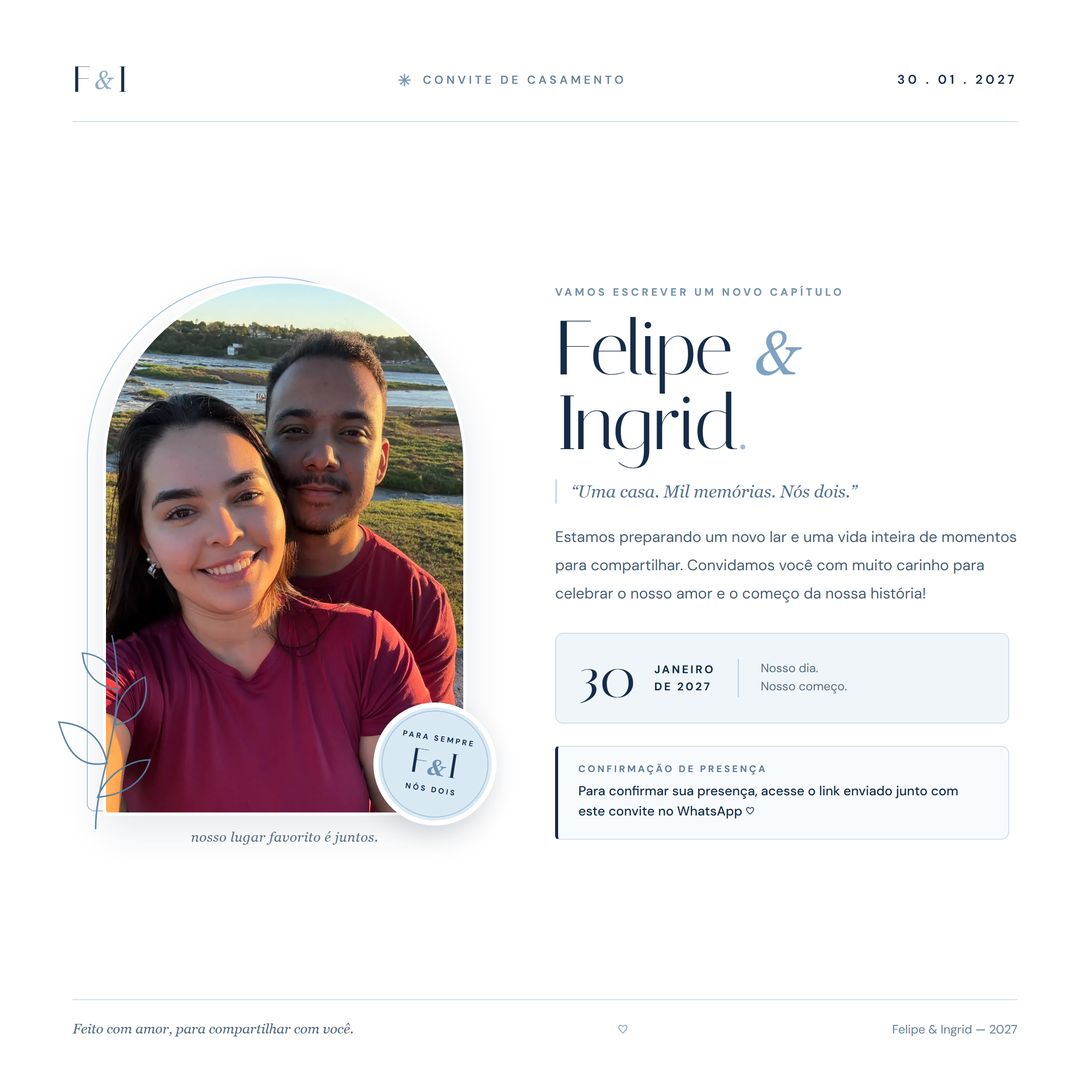
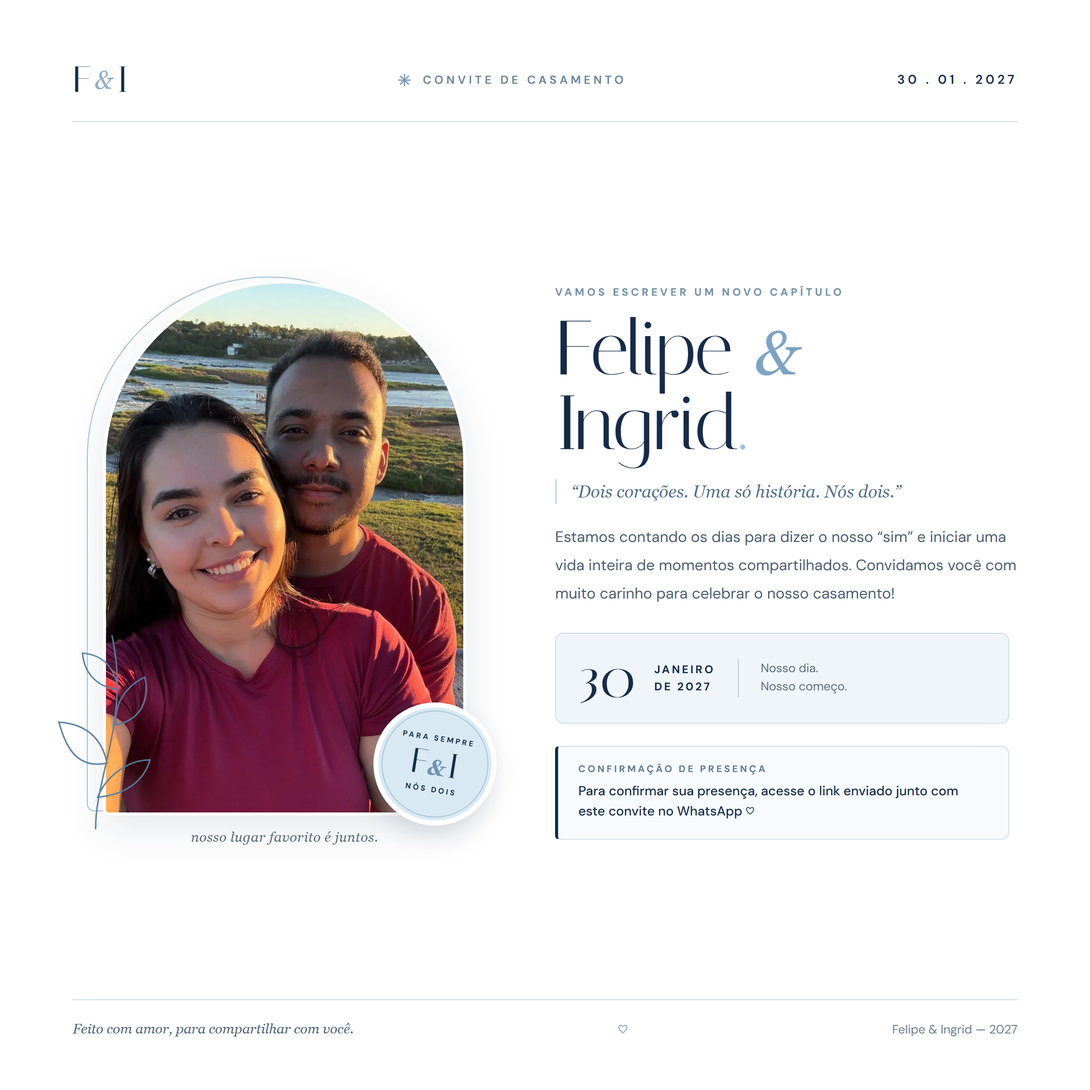
Ajusta textos do site e da imagem do convite para foco no casamento

Changed region(s): [[0.4963, 0.4343, 0.9306, 0.5583]]

diff --git a/app/catalogue.tsx b/app/catalogue.tsx
@@ -16,5 +16,5 @@ export default function Catalogue(){
  async function submit(e:React.FormEvent){e.preventDefault();if(!selected)return;setBusy(true);setModalError('');try{const r=await reservationRequest({method:action==='cancel'?'DELETE':'POST',headers:{'Content-Type':'application/json'},body:JSON.stringify({productId:selected.id,name:name.trim(),token:reservationKey()})});const data=await r.json() as {error?:string};if(!r.ok){if(r.status===409)await refresh();throw new Error(data.error||'Tente novamente.');}if(action==='reserve'){try{localStorage.setItem('if-guest-name',name.trim());}catch{}setReserved(x=>[...new Set([...x,selected.id])]);setMine(x=>[...new Set([...x,selected.id])]);setSuccess(true);}else{setReserved(x=>x.filter(i=>i!==selected.id));setMine(x=>x.filter(i=>i!==selected.id));setSelected(null);}await refresh();}catch(e){setModalError(e instanceof Error?e.message:'Não foi possível concluir. Tente novamente.');}finally{setBusy(false);}}
  const categories=['Todos',...new Set(products.map(p=>p.category))];
  const filtered=products.filter(p=>(category==='Todos'||p.category===category)&&p.name.normalize('NFD').replace(/[\u0300-\u036f]/g,'').toLowerCase().includes(query.normalize('NFD').replace(/[\u0300-\u036f]/g,'').toLowerCase())&&(availability==='all'||availability==='available'&&!reserved.includes(p.id)||availability==='mine'&&mine.includes(p.id))).sort((a,b)=>sort==='low'?(a.price??Infinity)-(b.price??Infinity):sort==='high'?(b.price??-Infinity)-(a.price??-Infinity):0);
- return <section className="gifts-section catalogue-section" id="presentes" aria-labelledby="gifts-title"><div className="section-heading"><span className="optional-pill">OPCIONAL • SE DESEJAR NOS PRESENTEAR</span><h2 id="gifts-title">Sugestões para o <em>nosso novo lar.</em></h2><p>Ter você celebrando conosco já é o essencial. Caso deseje nos presentear, escolha um item abaixo com seu nome ou <a href="#pix" className="inline-pix-link">contribua via Pix ↓</a></p></div><div className="catalogue"><div className="catalogue-voltage"><span aria-hidden="true">ϟ</span><p><strong>Presentes ligados à tomada: 220 V.</strong><br/>Ao comprar, confira a voltagem no anúncio. Para itens USB, confira também a compatibilidade do carregador.</p></div><div className="catalogue-intro"><span>{products.length} formas de fazer parte ♡</span><span>Uma reserva por presente</span></div><label className="search-field"><svg viewBox="0 0 24 24" fill="none" aria-hidden="true"><circle cx="10" cy="10" r="6.5"/><path d="m15 15 6 6"/></svg><span className="sr-only">Buscar presente</span><input type="search" placeholder="O que você gostaria de presentear?" value={query} onChange={e=>setQuery(e.target.value)}/></label><div className="category-filters" aria-label="Categorias">{categories.map(c=><button key={c} aria-pressed={category===c} onClick={()=>setCategory(c)}>{c}</button>)}</div><div className="catalogue-tools"><label><span className="sr-only">Filtrar disponibilidade</span><select value={availability} onChange={e=>setAvailability(e.target.value)}><option value="all">Todos os presentes</option><option value="available">Disponíveis</option><option value="mine">Minhas reservas ({mine.length})</option></select></label><label><span className="sr-only">Ordenar presentes</span><select value={sort} onChange={e=>setSort(e.target.value)}><option value="original">Ordem da lista</option><option value="low">Menor preço</option><option value="high">Maior preço</option></select></label></div><p className="price-notice">Valores de referência, sem frete. O preço final e as variações devem ser conferidos na loja.</p>{error&&<div className="catalogue-error" role="status">{error}<button onClick={refresh}>Tentar novamente</button></div>}<div className="product-count" aria-live="polite">{filtered.length} {filtered.length===1?'presente encontrado':'presentes encontrados'}</div><div className="product-grid">{filtered.map(p=>{const isMine=mine.includes(p.id),isReserved=reserved.includes(p.id);return <article className={'product-card'+(isReserved?' is-reserved':'')} key={p.id}><div className="product-photo">{p.image&&!failedImages.includes(p.id)?<img src={p.image} alt={p.name} loading="lazy" width="650" height="650" onError={()=>setFailedImages(x=>[...x,p.id])}/>:<div className="product-photo-pending"><svg viewBox="0 0 70 70" fill="none" aria-hidden="true"><path d="M15 30h40v30H15ZM10 20h50v10H10ZM35 20v40M35 20C13 20 16 4 24 8l11 12ZM35 20C57 20 54 4 46 8L35 20Z"/></svg><span>Foto em atualização</span></div>}{[10,12].includes(Number(p.id.slice(-2)))&&<span className="photo-reference">Foto de referência</span>}<span className={'product-state '+(isReserved?'reserved':'available')}>{isMine?'Reservado por você':isReserved?'Já escolhido':'Disponível'}</span></div><div className="product-body"><span className="product-category">{p.category}</span><h3>{p.name}</h3>{p.voltage&&<p className="voltage-badge"><span aria-hidden="true">ϟ</span> Presentear em <strong>220 V</strong></p>}<div className="product-price">{p.price!==null?<><span className="price-prefix">{p.priceMax||[11,18,19].includes(Number(p.id.slice(-2)))?'A partir de':'Valor de referência'}</span><strong>{money(p.price)}</strong>{p.priceMax&&<span className="price-range">até {money(p.priceMax)}</span>}</>:<strong className="price-unknown">Consultar valor na loja</strong>}</div>{p.note&&<p className="product-note">{p.note}</p>}<a className="store-link" href={p.url} target="_blank" rel="noopener noreferrer">Ver na {p.store==='Shopee'?'Shopee':'loja'} <span aria-hidden="true">↗</span></a>{isMine?<><a className="reserve-button owned" href={p.url} target="_blank" rel="noopener noreferrer">Comprar meu presente ↗</a><button className="cancel-link" onClick={e=>open(p,'cancel',e)}>Cancelar minha reserva</button></>:<button className="reserve-button" disabled={isReserved||!loaded} onClick={e=>open(p,'reserve',e)}>{isReserved?'Presente reservado':!loaded?'Aguardando reservas…':'Vou presentear ♡'}</button>}</div></article>;})}</div>{!filtered.length&&<div className="no-products"><h3>{availability==='mine'?'Seu primeiro gesto de carinho começa aqui.':'Ainda não encontramos esse presente.'}</h3><p>{availability==='mine'?'As reservas feitas neste navegador aparecerão aqui.':'Experimente outra busca ou categoria.'}</p><button className="reserve-button" onClick={()=>{setQuery('');setCategory('Todos');setAvailability('all');}}>Ver todos os presentes</button></div>}<p className="gift-note">Sua presença na nossa história é o que mais importa.</p></div><dialog ref={dialog} className="reservation-dialog" onCancel={e=>{e.preventDefault();close();}} onClick={e=>{if(e.target===e.currentTarget)close();}} aria-labelledby="reservation-title"><div className="dialog-inner"><button className="dialog-close" aria-label="Fechar" onClick={close} disabled={busy}>×</button><p className="eyebrow">UM PEDACINHO DO NOSSO LAR</p><h2 id="reservation-title">{success?'É seu para presentear.':action==='cancel'?'Liberar este presente?':'Que lindo carinho.'}</h2><p className="selected-name">{selected?.name}</p>{selected?.voltage&&<p className="voltage-reminder"><strong>Este presente deve ser 220 V.</strong><br/>Selecione essa voltagem na loja antes de finalizar a compra.</p>}{success?<><p>Seu presente está reservado. Agora é só finalizar a compra na loja.</p><a className="reserve-button" href={selected?.url} target="_blank" rel="noopener noreferrer">Ir para {selected?.store} ↗</a><p className="dialog-note">A reserva não realiza a compra. Você pode voltar ao mesmo navegador para acessar ou cancelar sua escolha.</p><button className="text-button" onClick={close}>Voltar para a lista</button></>:<form onSubmit={submit}>{action==='reserve'?<><p>Reserve com seu nome para que ninguém escolha o mesmo presente.</p><label className="name-label" htmlFor="guest-name">Seu nome</label><input id="guest-name" autoComplete="name" value={name} onChange={e=>setName(e.target.value)} required minLength={2} maxLength={80} placeholder="Como podemos chamar você?" autoFocus/><p className="dialog-note">Seu nome não aparece para os outros convidados. A reserva fica vinculada a este navegador.</p></>:<p>O item voltará a ficar disponível para outro convidado. O cancelamento da reserva não cancela compras feitas na loja.</p>}{modalError&&<p className="form-error" role="alert">{modalError}</p>}<button className="reserve-button" type="submit" disabled={busy}>{busy?'Só um instante…':action==='cancel'?'Sim, liberar presente':'Confirmar minha reserva ♡'}</button></form>}</div></dialog></section>;
+ return <section className="gifts-section catalogue-section" id="presentes" aria-labelledby="gifts-title"><div className="section-heading"><span className="optional-pill">OPCIONAL • SE DESEJAR NOS PRESENTEAR</span><h2 id="gifts-title">Sugestões de presentes para o <em>nosso casamento.</em></h2><p>Ter você celebrando conosco já é o essencial. Caso deseje nos presentear, escolha um item abaixo com seu nome ou <a href="#pix" className="inline-pix-link">contribua via Pix ↓</a></p></div><div className="catalogue"><div className="catalogue-voltage"><span aria-hidden="true">ϟ</span><p><strong>Presentes ligados à tomada: 220 V.</strong><br/>Ao comprar, confira a voltagem no anúncio. Para itens USB, confira também a compatibilidade do carregador.</p></div><div className="catalogue-intro"><span>{products.length} formas de fazer parte ♡</span><span>Uma reserva por presente</span></div><label className="search-field"><svg viewBox="0 0 24 24" fill="none" aria-hidden="true"><circle cx="10" cy="10" r="6.5"/><path d="m15 15 6 6"/></svg><span className="sr-only">Buscar presente</span><input type="search" placeholder="O que você gostaria de presentear?" value={query} onChange={e=>setQuery(e.target.value)}/></label><div className="category-filters" aria-label="Categorias">{categories.map(c=><button key={c} aria-pressed={category===c} onClick={()=>setCategory(c)}>{c}</button>)}</div><div className="catalogue-tools"><label><span className="sr-only">Filtrar disponibilidade</span><select value={availability} onChange={e=>setAvailability(e.target.value)}><option value="all">Todos os presentes</option><option value="available">Disponíveis</option><option value="mine">Minhas reservas ({mine.length})</option></select></label><label><span className="sr-only">Ordenar presentes</span><select value={sort} onChange={e=>setSort(e.target.value)}><option value="original">Ordem da lista</option><option value="low">Menor preço</option><option value="high">Maior preço</option></select></label></div><p className="price-notice">Valores de referência, sem frete. O preço final e as variações devem ser conferidos na loja.</p>{error&&<div className="catalogue-error" role="status">{error}<button onClick={refresh}>Tentar novamente</button></div>}<div className="product-count" aria-live="polite">{filtered.length} {filtered.length===1?'presente encontrado':'presentes encontrados'}</div><div className="product-grid">{filtered.map(p=>{const isMine=mine.includes(p.id),isReserved=reserved.includes(p.id);return <article className={'product-card'+(isReserved?' is-reserved':'')} key={p.id}><div className="product-photo">{p.image&&!failedImages.includes(p.id)?<img src={p.image} alt={p.name} loading="lazy" width="650" height="650" onError={()=>setFailedImages(x=>[...x,p.id])}/>:<div className="product-photo-pending"><svg viewBox="0 0 70 70" fill="none" aria-hidden="true"><path d="M15 30h40v30H15ZM10 20h50v10H10ZM35 20v40M35 20C13 20 16 4 24 8l11 12ZM35 20C57 20 54 4 46 8L35 20Z"/></svg><span>Foto em atualização</span></div>}{[10,12].includes(Number(p.id.slice(-2)))&&<span className="photo-reference">Foto de referência</span>}<span className={'product-state '+(isReserved?'reserved':'available')}>{isMine?'Reservado por você':isReserved?'Já escolhido':'Disponível'}</span></div><div className="product-body"><span className="product-category">{p.category}</span><h3>{p.name}</h3>{p.voltage&&<p className="voltage-badge"><span aria-hidden="true">ϟ</span> Presentear em <strong>220 V</strong></p>}<div className="product-price">{p.price!==null?<><span className="price-prefix">{p.priceMax||[11,18,19].includes(Number(p.id.slice(-2)))?'A partir de':'Valor de referência'}</span><strong>{money(p.price)}</strong>{p.priceMax&&<span className="price-range">até {money(p.priceMax)}</span>}</>:<strong className="price-unknown">Consultar valor na loja</strong>}</div>{p.note&&<p className="product-note">{p.note}</p>}<a className="store-link" href={p.url} target="_blank" rel="noopener noreferrer">Ver na {p.store==='Shopee'?'Shopee':'loja'} <span aria-hidden="true">↗</span></a>{isMine?<><a className="reserve-button owned" href={p.url} target="_blank" rel="noopener noreferrer">Comprar meu presente ↗</a><button className="cancel-link" onClick={e=>open(p,'cancel',e)}>Cancelar minha reserva</button></>:<button className="reserve-button" disabled={isReserved||!loaded} onClick={e=>open(p,'reserve',e)}>{isReserved?'Presente reservado':!loaded?'Aguardando reservas…':'Vou presentear ♡'}</button>}</div></article>;})}</div>{!filtered.length&&<div className="no-products"><h3>{availability==='mine'?'Seu primeiro gesto de carinho começa aqui.':'Ainda não encontramos esse presente.'}</h3><p>{availability==='mine'?'As reservas feitas neste navegador aparecerão aqui.':'Experimente outra busca ou categoria.'}</p><button className="reserve-button" onClick={()=>{setQuery('');setCategory('Todos');setAvailability('all');}}>Ver todos os presentes</button></div>}<p className="gift-note">Sua presença na nossa história é o que mais importa.</p></div><dialog ref={dialog} className="reservation-dialog" onCancel={e=>{e.preventDefault();close();}} onClick={e=>{if(e.target===e.currentTarget)close();}} aria-labelledby="reservation-title"><div className="dialog-inner"><button className="dialog-close" aria-label="Fechar" onClick={close} disabled={busy}>×</button><p className="eyebrow">UM GESTO DE CARINHO</p><h2 id="reservation-title">{success?'É seu para presentear.':action==='cancel'?'Liberar este presente?':'Que lindo carinho.'}</h2><p className="selected-name">{selected?.name}</p>{selected?.voltage&&<p className="voltage-reminder"><strong>Este presente deve ser 220 V.</strong><br/>Selecione essa voltagem na loja antes de finalizar a compra.</p>}{success?<><p>Seu presente está reservado. Agora é só finalizar a compra na loja.</p><a className="reserve-button" href={selected?.url} target="_blank" rel="noopener noreferrer">Ir para {selected?.store} ↗</a><p className="dialog-note">A reserva não realiza a compra. Você pode voltar ao mesmo navegador para acessar ou cancelar sua escolha.</p><button className="text-button" onClick={close}>Voltar para a lista</button></>:<form onSubmit={submit}>{action==='reserve'?<><p>Reserve com seu nome para que ninguém escolha o mesmo presente.</p><label className="name-label" htmlFor="guest-name">Seu nome</label><input id="guest-name" autoComplete="name" value={name} onChange={e=>setName(e.target.value)} required minLength={2} maxLength={80} placeholder="Como podemos chamar você?" autoFocus/><p className="dialog-note">Seu nome não aparece para os outros convidados. A reserva fica vinculada a este navegador.</p></>:<p>O item voltará a ficar disponível para outro convidado. O cancelamento da reserva não cancela compras feitas na loja.</p>}{modalError&&<p className="form-error" role="alert">{modalError}</p>}<button className="reserve-button" type="submit" disabled={busy}>{busy?'Só um instante…':action==='cancel'?'Sim, liberar presente':'Confirmar minha reserva ♡'}</button></form>}</div></dialog></section>;
 }

diff --git a/app/page-markup.ts b/app/page-markup.ts
@@ -1,7 +1,7 @@
 export const heroMarkup = "<header><a class=\"brand\" href=\"#inicio\" aria-label=\"Felipe e Ingrid, início\">F<span>&</span>I</a><span class=\"header-date\">30 . 01 . 2027</span><nav class=\"header-nav\" aria-label=\"Atalhos\"><a class=\"header-link\" href=\"#presenca\">Confirmar presença <span aria-hidden=\"true\">♡</span></a><a class=\"header-link\" href=\"/presentes\">Lista de presentes <span aria-hidden=\"true\">↗</span></a></nav></header>\n\n<section class=\"hero\" id=\"inicio\" aria-labelledby=\"hero-title\">\n<div class=\"hero-copy\"><p class=\"eyebrow\"><span class=\"little-star\" aria-hidden=\"true\">✳</span> CONVITE DE CASAMENTO</p><h1 id=\"hero-title\">Felipe <span class=\"amp\">&</span><br>Ingrid<span class=\"period\">.</span></h1><p class=\"hero-text\">A vida fica ainda mais bonita<br>quando a gente compartilha.</p><div class=\"date-line\"><span class=\"date-number\">30</span><div><span>JANEIRO</span><span>DE 2027</span></div><span class=\"date-divider\"></span><span class=\"date-note\">Nosso dia.<br>Nosso começo.</span></div><div class=\"hero-actions\"><a class=\"button primary\" href=\"#presenca\">Confirmar presença <span aria-hidden=\"true\">♡</span></a><a class=\"button secondary\" href=\"/presentes\">Se desejar nos presentear <span aria-hidden=\"true\">↗</span></a></div><span class=\"hero-footnote\">Com carinho, para quem faz parte da nossa história.</span></div>\n<div class=\"hero-visual\"><div class=\"photo-arch\"><img src=\"assets/couple-2.webp\" alt=\"Felipe e Ingrid juntos à beira do rio, ao pôr do sol\" width=\"900\" height=\"1600\" fetchpriority=\"high\"></div><div class=\"photo-outline\" aria-hidden=\"true\"></div><div class=\"seal\" aria-label=\"Para sempre, nós dois\"><span>PARA SEMPRE</span><strong>F<span>&</span>I</strong><span>NÓS DOIS</span></div><span class=\"photo-caption\">nosso lugar favorito é juntos.</span><svg class=\"sprig\" viewBox=\"0 0 130 240\" fill=\"none\" aria-hidden=\"true\"><path d=\"M30 234C40 172 94 111 89 10M57 159C18 160 12 128 9 101C37 108 56 125 57 159ZM75 116C113 115 120 84 119 66C94 73 78 91 75 116ZM85 75C58 67 49 46 51 25C73 31 86 47 85 75ZM39 197C78 200 99 183 108 164C79 159 51 177 39 197Z\" stroke=\"currentColor\" stroke-width=\"1.4\"/></svg></div>\n<a href=\"#nosso-dia\" class=\"scroll-hint\"><span aria-hidden=\"true\">↓</span> UM POUQUINHO MAIS PERTO</a>\n</section>\n";
 
-export const letterMarkup = "<section class=\"letter-section\" aria-labelledby=\"letter-title\"><div class=\"second-photo\"><img src=\"assets/couple-1.webp\" alt=\"Felipe e Ingrid sorrindo em um passeio juntos\" width=\"900\" height=\"1600\" loading=\"lazy\"><span>um sim para todos os nossos dias.</span></div><div class=\"letter\"><span class=\"chapter\">01 / COM AMOR</span><h2 id=\"letter-title\">Uma casa.<br>Mil memórias.<br><em>Nós dois.</em></h2><p>Estamos preparando um novo lar e uma vida inteira de momentos para compartilhar.</p><p>Ter você por perto nessa fase é o que torna tudo especial. Confirme sua presença abaixo para celebrarmos juntos esse novo capítulo da nossa história.</p><div class=\"signature\">Felipe & Ingrid <span aria-hidden=\"true\">♡</span></div></div></section>\n";
+export const letterMarkup = "<section class=\"letter-section\" aria-labelledby=\"letter-title\"><div class=\"second-photo\"><img src=\"assets/couple-1.webp\" alt=\"Felipe e Ingrid sorrindo em um passeio juntos\" width=\"900\" height=\"1600\" loading=\"lazy\"><span>um sim para todos os nossos dias.</span></div><div class=\"letter\"><span class=\"chapter\">01 / COM AMOR</span><h2 id=\"letter-title\">Dois corações.<br>Uma só história.<br><em>Nós dois.</em></h2><p>Estamos contando os dias para dizer o nosso “sim” e celebrar o começo de uma vida inteira de amor, parceria e sonhos compartilhados.</p><p>Ter você ao nosso lado nesse grande dia é o que torna a nossa alegria completa. Confirme sua presença abaixo para celebrarmos juntos o nosso casamento.</p><div class=\"signature\">Felipe & Ingrid <span aria-hidden=\"true\">♡</span></div></div></section>\n";
 
-export const afterCatalogue = "<section class=\"optional-gifts-callout\" id=\"mimo\" aria-labelledby=\"optional-gifts-title\">\n<div class=\"optional-gifts-card\">\n<div class=\"optional-gifts-icon\" aria-hidden=\"true\"><svg viewBox=\"0 0 70 70\" fill=\"none\"><path d=\"M15 30h40v30H15ZM10 20h50v10H10ZM35 20v40M35 20C13 20 16 4 24 8l11 12ZM35 20C57 20 54 4 46 8L35 20Z\" stroke=\"currentColor\" stroke-width=\"1.4\"/></svg></div>\n<div class=\"optional-gifts-copy\">\n<span class=\"optional-pill\">UM GESTO OPCIONAL, SE DESEJAR</span>\n<h2 id=\"optional-gifts-title\">Quer nos presentear com um <em>pedacinho do nosso lar?</em></h2>\n<p>Sua presença e seu carinho no nosso grande dia já são o essencial para nós. Mas, caso você deseje nos presentear com alguma lembrança para a nossa casa nova ou uma contribuição livre via Pix, preparamos uma página especial com algumas sugestões.</p>\n<div class=\"optional-gifts-actions\">\n<a class=\"button primary\" href=\"/presentes\">Conhecer sugestões de presentes e Pix <span aria-hidden=\"true\">♡ ↗</span></a>\n<span class=\"optional-gifts-note\">Fique totalmente à vontade — o mais importante é celebrar com você.</span>\n</div>\n</div>\n</div>\n</section>\n<footer><p class=\"eyebrow\">O COMEÇO DO NOSSO PARA SEMPRE</p><a href=\"#inicio\" class=\"footer-names\">Felipe <em>&</em> Ingrid</a><p class=\"footer-date\">30 . 01 . 2027</p><span>Feito com amor, para compartilhar com você.</span><div class=\"footer-heart\" aria-hidden=\"true\">♡</div><div class=\"footer-links\"><a href=\"/presentes\">Sugestões de presentes (opcional) ↗</a><span class=\"footer-sep\">•</span><a href=\"/presenca\">Lista de presença confirmada ↗</a></div></footer>\n";
+export const afterCatalogue = "<section class=\"optional-gifts-callout\" id=\"mimo\" aria-labelledby=\"optional-gifts-title\">\n<div class=\"optional-gifts-card\">\n<div class=\"optional-gifts-icon\" aria-hidden=\"true\"><svg viewBox=\"0 0 70 70\" fill=\"none\"><path d=\"M15 30h40v30H15ZM10 20h50v10H10ZM35 20v40M35 20C13 20 16 4 24 8l11 12ZM35 20C57 20 54 4 46 8L35 20Z\" stroke=\"currentColor\" stroke-width=\"1.4\"/></svg></div>\n<div class=\"optional-gifts-copy\">\n<span class=\"optional-pill\">UM GESTO OPCIONAL, SE DESEJAR</span>\n<h2 id=\"optional-gifts-title\">Caso deseje nos presentear <em>com algum mimo</em></h2>\n<p>Sua presença celebrando conosco no nosso grande dia já é o maior presente que poderíamos receber. Mas, para os amigos e familiares que desejarem nos presentear ou enviar uma contribuição livre via Pix, preparamos uma página especial com algumas sugestões.</p>\n<div class=\"optional-gifts-actions\">\n<a class=\"button primary\" href=\"/presentes\">Conhecer sugestões de presentes e Pix <span aria-hidden=\"true\">♡ ↗</span></a>\n<span class=\"optional-gifts-note\">Fique totalmente à vontade — o mais importante é celebrar com você.</span>\n</div>\n</div>\n</div>\n</section>\n<footer><p class=\"eyebrow\">O COMEÇO DO NOSSO PARA SEMPRE</p><a href=\"#inicio\" class=\"footer-names\">Felipe <em>&</em> Ingrid</a><p class=\"footer-date\">30 . 01 . 2027</p><span>Feito com amor, para compartilhar com você.</span><div class=\"footer-heart\" aria-hidden=\"true\">♡</div><div class=\"footer-links\"><a href=\"/presentes\">Sugestões de presentes (opcional) ↗</a><span class=\"footer-sep\">•</span><a href=\"/presenca\">Lista de presença confirmada ↗</a></div></footer>\n";
 
-export const giftsPageAfterCatalogue = "<section class=\"how-section\" id=\"como-funciona\" aria-labelledby=\"how-title\"><div class=\"how-intro\"><p class=\"eyebrow\">ESCOLHER, RESERVAR E PRESENTEAR</p><h2 id=\"how-title\">Um gesto de carinho.<br><em>É simples assim.</em></h2></div><ol class=\"steps\"><li><span class=\"step-number\">01</span><h3>Encontre uma sugestão</h3><p>Explore a lista se desejar escolher algo para fazer parte do nosso lar, ou utilize a opção de Pix.</p></li><li><span class=\"step-number\">02</span><h3>Reserve com seu nome</h3><p>O item ficará reservado para você no site, evitando presentes repetidos entre os convidados.</p></li><li><span class=\"step-number\">03</span><h3>Compre na loja indicada</h3><p>Acesse o link do produto e finalize a compra diretamente na loja de sua preferência.</p></li></ol></section>\n<section class=\"faq-section\" aria-labelledby=\"faq-title\"><div><p class=\"eyebrow\">PARA FACILITAR</p><h2 id=\"faq-title\">Só mais <em>um detalhe.</em></h2></div><div class=\"questions\"><details><summary>Como escolho meu presente?<span aria-hidden=\"true\">+</span></summary><p>Explore as sugestões acima, confira os detalhes na loja e reserve seu escolhido com o seu nome — ou, se preferir, utilize a chave Pix informada na página.</p></details><details><summary>A compra será feita neste site?<span aria-hidden=\"true\">+</span></summary><p>Aqui você escolherá e reservará o presente para que ninguém escolha igual. A compra e o pagamento serão feitos diretamente na loja, pelo link do produto.</p></details><details><summary>Como evitar presentes repetidos?<span aria-hidden=\"true\">+</span></summary><p>Cada presente só pode ser reservado uma vez. A reserva vale para todos os convidados, em qualquer celular. Se desistir, você pode liberar o item pelo mesmo navegador em que fez a reserva.</p></details></div></section>\n<footer><p class=\"eyebrow\">O COMEÇO DO NOSSO PARA SEMPRE</p><a href=\"/\" class=\"footer-names\">Felipe <em>&</em> Ingrid</a><p class=\"footer-date\">30 . 01 . 2027</p><span>Feito com amor, para compartilhar com você.</span><div class=\"footer-heart\" aria-hidden=\"true\">♡</div><div class=\"footer-links\"><a href=\"/#presenca\">← Voltar para confirmação de presença</a><span class=\"footer-sep\">•</span><a href=\"/presenca\">Lista de presença confirmada ↗</a></div></footer>\n";
+export const giftsPageAfterCatalogue = "<section class=\"how-section\" id=\"como-funciona\" aria-labelledby=\"how-title\"><div class=\"how-intro\"><p class=\"eyebrow\">ESCOLHER, RESERVAR E PRESENTEAR</p><h2 id=\"how-title\">Um gesto de carinho.<br><em>É simples assim.</em></h2></div><ol class=\"steps\"><li><span class=\"step-number\">01</span><h3>Encontre uma sugestão</h3><p>Explore a lista se desejar escolher uma lembrança de casamento para nós, ou utilize a opção de Pix.</p></li><li><span class=\"step-number\">02</span><h3>Reserve com seu nome</h3><p>O item ficará reservado para você no site, evitando presentes repetidos entre os convidados.</p></li><li><span class=\"step-number\">03</span><h3>Compre na loja indicada</h3><p>Acesse o link do produto e finalize a compra diretamente na loja de sua preferência.</p></li></ol></section>\n<section class=\"faq-section\" aria-labelledby=\"faq-title\"><div><p class=\"eyebrow\">PARA FACILITAR</p><h2 id=\"faq-title\">Só mais <em>um detalhe.</em></h2></div><div class=\"questions\"><details><summary>Como escolho meu presente?<span aria-hidden=\"true\">+</span></summary><p>Explore as sugestões acima, confira os detalhes na loja e reserve seu escolhido com o seu nome — ou, se preferir, utilize a chave Pix informada na página.</p></details><details><summary>A compra será feita neste site?<span aria-hidden=\"true\">+</span></summary><p>Aqui você escolherá e reservará o presente para que ninguém escolha igual. A compra e o pagamento serão feitos diretamente na loja, pelo link do produto.</p></details><details><summary>Como evitar presentes repetidos?<span aria-hidden=\"true\">+</span></summary><p>Cada presente só pode ser reservado uma vez. A reserva vale para todos os convidados, em qualquer celular. Se desistir, você pode liberar o item pelo mesmo navegador em que fez a reserva.</p></details></div></section>\n<footer><p class=\"eyebrow\">O COMEÇO DO NOSSO PARA SEMPRE</p><a href=\"/\" class=\"footer-names\">Felipe <em>&</em> Ingrid</a><p class=\"footer-date\">30 . 01 . 2027</p><span>Feito com amor, para compartilhar com você.</span><div class=\"footer-heart\" aria-hidden=\"true\">♡</div><div class=\"footer-links\"><a href=\"/#presenca\">← Voltar para confirmação de presença</a><span class=\"footer-sep\">•</span><a href=\"/presenca\">Lista de presença confirmada ↗</a></div></footer>\n";

diff --git a/app/invitation-rsvp.tsx b/app/invitation-rsvp.tsx
@@ -147,30 +147,32 @@ export default function InvitationRsvp() {
               </p>
 
               {submitted.attending && (
-                <div className="rsvp-summary-box">
-                  <span className="summary-label">RESUMO DA SUA CONFIRMAÇÃO</span>
-                  <ul>
-                    <li>
-                      <strong>{submitted.guestName}</strong> <span>(Titular)</span>
-                    </li>
-                    {submitted.companions.map((c, idx) => (
-                      <li key={idx}>
-                        <strong>{c.name}</strong>{' '}
-                        <span>({c.type === 'child' ? 'Criança' : 'Adulto'})</span>
+                <>
+                  <div className="rsvp-summary-box">
+                    <span className="summary-label">RESUMO DA SUA CONFIRMAÇÃO</span>
+                    <ul>
+                      <li>
+                        <strong>{submitted.guestName}</strong> <span>(Titular)</span>
                       </li>
-                    ))}
-                  </ul>
-                </div>
-              )}
+                      {submitted.companions.map((c, idx) => (
+                        <li key={idx}>
+                          <strong>{c.name}</strong>{' '}
+                          <span>({c.type === 'child' ? 'Criança' : 'Adulto'})</span>
+                        </li>
+                      ))}
+                    </ul>
+                  </div>
 
-              <div className="rsvp-gift-invitation">
-                <p>
-                  Ter você conosco já é o nosso maior presente. Caso também deseje nos presentear com uma lembrança para o nosso novo lar, preparamos algumas sugestões com carinho:
-                </p>
-                <a className="button primary" href="/presentes">
-                  Conhecer lista de presentes (opcional) <span aria-hidden="true">♡ ↗</span>
-                </a>
-              </div>
+                  <div className="rsvp-gift-invitation">
+                    <p>
+                      Ter você conosco já é o nosso maior presente. Caso também deseje nos presentear neste momento especial, preparamos algumas sugestões com carinho:
+                    </p>
+                    <a className="button primary" href="/presentes">
+                      Conhecer lista de presentes (opcional) <span aria-hidden="true">♡ ↗</span>
+                    </a>
+                  </div>
+                </>
+              )}
 
               <div className="rsvp-success-actions">
                 <button type="button" className="text-button" onClick={resetForm}>

diff --git a/app/layout.tsx b/app/layout.tsx
@@ -1,4 +1,4 @@
 import type { Metadata } from 'next';
 import './globals.css';
-export const metadata: Metadata={title:'Felipe & Ingrid | 30.01.2027',description:'Nossa lista de presentes. Escolha com carinho e reserve um pedacinho do nosso novo lar.',icons:{icon:'/favicon.svg'}};
+export const metadata: Metadata={title:'Convite de Casamento | Felipe & Ingrid — 30.01.2027',description:'Com muito carinho, convidamos você para celebrar o nosso casamento em 30 de janeiro de 2027. Confirme sua presença!',icons:{icon:'/favicon.svg'}};
 export default function RootLayout({children}:Readonly<{children:React.ReactNode}>){return <html lang="pt-BR"><body>{children}</body></html>;}

diff --git a/app/presentes/page.tsx b/app/presentes/page.tsx
@@ -6,9 +6,9 @@ import MobileNav from '../mobile-nav';
 import { giftsPageAfterCatalogue } from '../page-markup';
 
 export const metadata: Metadata = {
-  title: 'Lista de Presentes | Felipe & Ingrid (30.01.2027)',
+  title: 'Sugestões de Presentes | Casamento Felipe & Ingrid (30.01.2027)',
   description:
-    'Se desejar nos presentear, preparamos algumas sugestões com carinho para o nosso novo lar.',
+    'Se desejar nos presentear em nosso casamento, preparamos algumas sugestões com carinho para essa nova etapa.',
 };
 
 export default function PresentesPage() {
